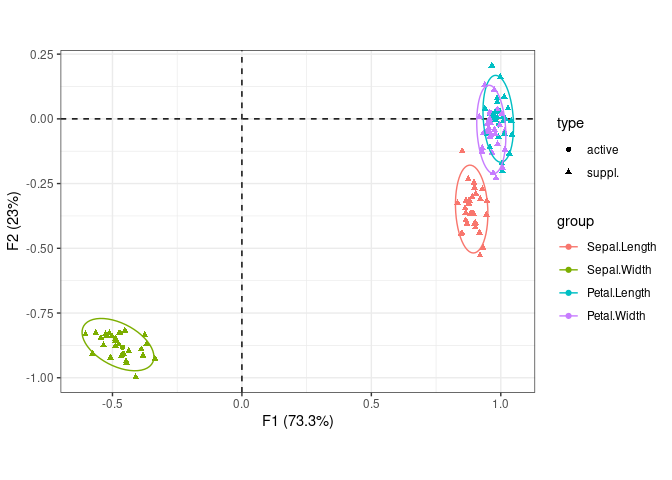
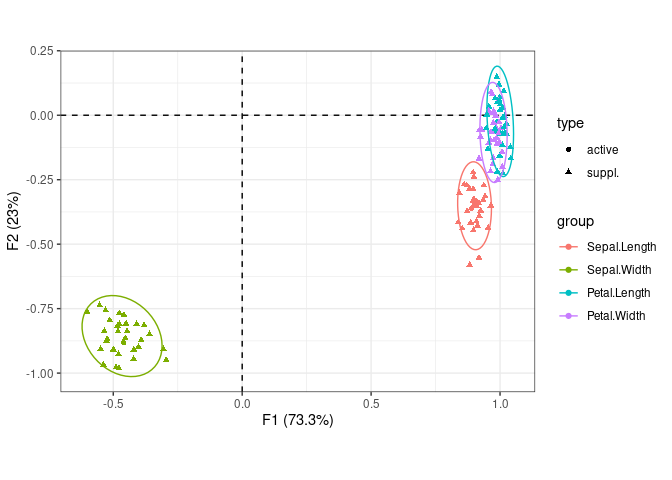
version 0.2.1

diff --git a/README.md b/README.md
@@ -8,6 +8,13 @@
 [![R-CMD-check](https://github.com/tesselle/dimensio/workflows/R-CMD-check/badge.svg)](https://github.com/tesselle/dimensio/actions)
 [![codecov](https://codecov.io/gh/tesselle/dimensio/branch/master/graph/badge.svg)](https://codecov.io/gh/tesselle/dimensio)
 
+[![CRAN
+Version](http://www.r-pkg.org/badges/version/dimensio)](https://cran.r-project.org/package=dimensio)
+[![CRAN
+checks](https://cranchecks.info/badges/worst/dimensio)](https://cran.r-project.org/web/checks/check_results_dimensio.html)
+[![CRAN
+Downloads](http://cranlogs.r-pkg.org/badges/dimensio)](https://cran.r-project.org/package=dimensio)
+
 [![Project Status: Active – The project has reached a stable, usable
 state and is being actively
 developed.](https://www.repostatus.org/badges/latest/active.svg)](https://www.repostatus.org/#active)

diff --git a/NEWS.md b/NEWS.md
@@ -1,4 +1,11 @@
+# dimensio 0.2.1
+
+## Bugfixes & changes
+* Fix row names in `build_results()`. When initializing a `MultivariateResults` object with supplementary observations, the row names of the `standard` and `contributions` matrices were incorrect (computation moves all supplementary points at the end of the results).
+
 # dimensio 0.2.0
+
+[![DOI](https://zenodo.org/badge/DOI/10.5281/zenodo.4709122.svg)](https://doi.org/10.5281/zenodo.4709122)
 
 ## New classes and methods
 * Add `bootstrap()` for partial bootstrap analysis.
